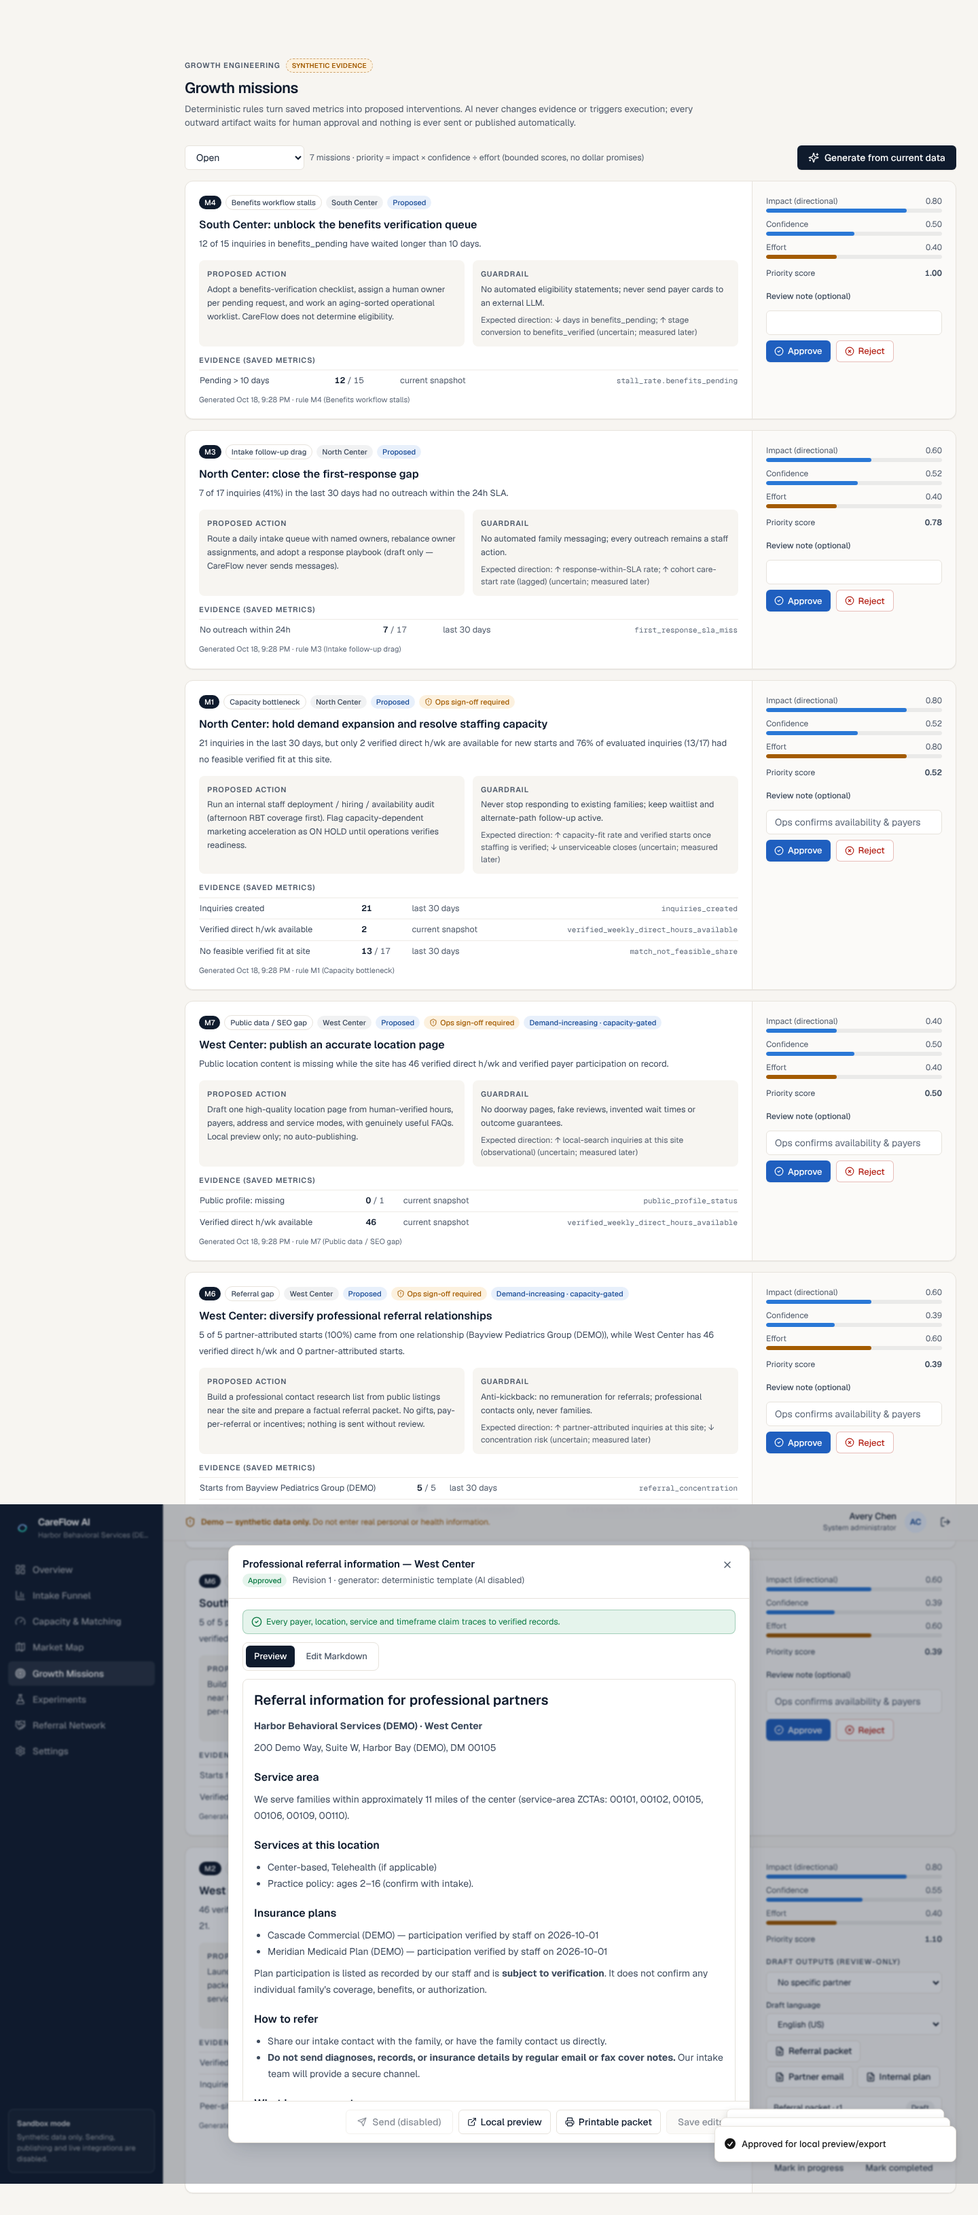
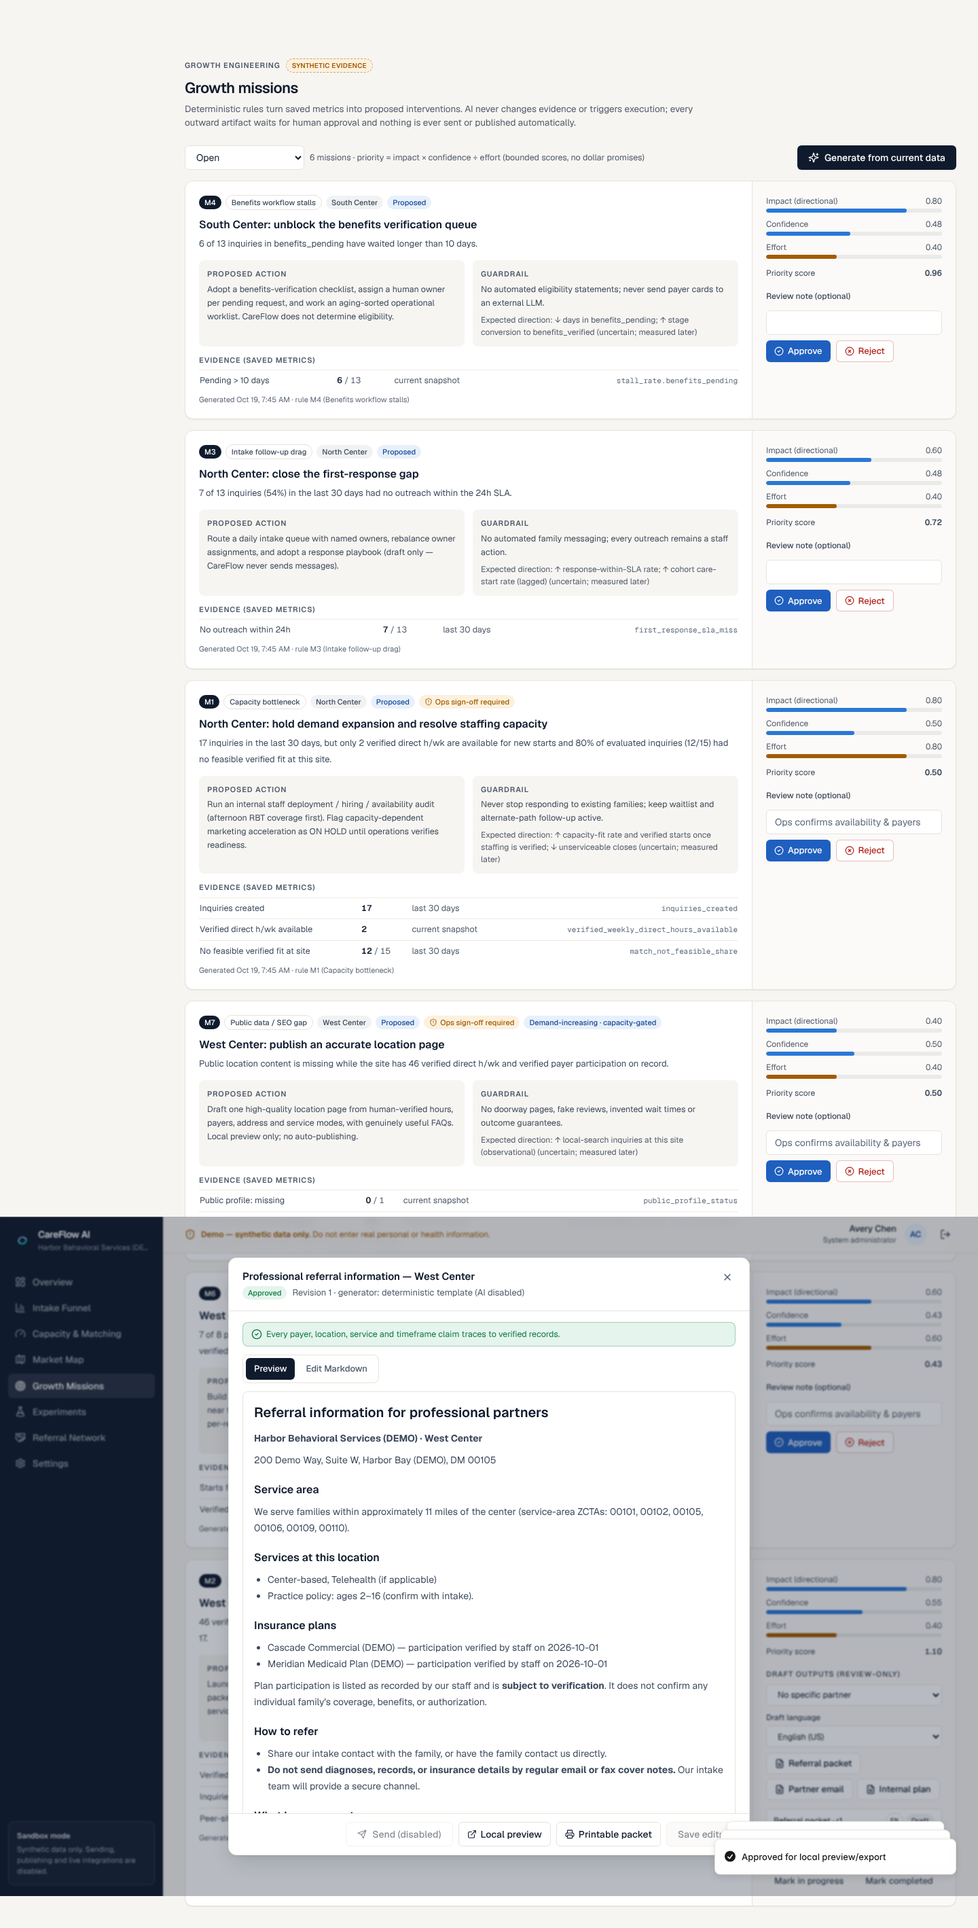
Seed: same story at any time of day; refresh unreviewed missions across reporting weeks
The inquiry simulator's random draws depend on which events would fall after
'now', so resets at different hours produced different stories (an extra M6
South mission between ~02:00 and 04:00 UTC). Simulate at the latest 18:00 UTC
and shift timestamps forward to now; pinned anchors are unchanged. Mission
generation now refreshes still-proposed missions from earlier reporting weeks
instead of duplicating them. Adds seed-stability tests; updates the report.

Claude-Session: https://claude.ai/code/session_01MZ63PHRdwu6UMgfcRg6Ymw

diff --git a/packages/db/test/seed-stability.test.ts b/packages/db/test/seed-stability.test.ts
@@ -1,0 +1,57 @@
+import { afterAll, describe, expect, it } from "vitest";
+import { seedDatabase, storyReference } from "../src/seed";
+import { HARBOR } from "../src/seed/fixtures";
+import { generateMissions, listMissions } from "../src/services/missions";
+import { harbor, reseed, testDb } from "./helpers";
+
+const { db, client } = testDb();
+afterAll(async () => {
+  await reseed(db);
+  await client.end();
+});
+
+const HOUR = 3_600_000;
+const STORY = ["M1:North Center", "M3:North Center", "M4:South Center"];
+const story = async () =>
+  (await listMissions(db, { ...harbor(), orgId: HARBOR.id })).map((m) => `${m.ruleId}:${m.centerName ?? "-"}`).sort();
+const counts = async () => {
+  const [r] = await client`select (select count(*)::int from inquiries where organization_id = ${HARBOR.id}) as inquiries,
+    (select count(*)::int from inquiry_events where organization_id = ${HARBOR.id}) as events,
+    (select max(occurred_at) from inquiry_events where organization_id = ${HARBOR.id}) as last`;
+  return r!;
+};
+
+describe("seed story stability", () => {
+  it("simulates at the latest 18:00 UTC at or before now", () => {
+    for (const [now, ref] of [
+      ["2026-10-19T02:41:00Z", "2026-10-18T18:00:00.000Z"],
+      ["2026-10-19T17:59:00Z", "2026-10-18T18:00:00.000Z"],
+      ["2026-10-19T18:00:00Z", "2026-10-19T18:00:00.000Z"],
+      ["2026-10-19T23:30:00Z", "2026-10-19T18:00:00.000Z"],
+    ] as const) {
+      expect(storyReference(new Date(now)).toISOString(), now).toBe(ref);
+    }
+  });
+
+  it("the seeded story is identical at any time of day (it used to grow an extra M6 South between ~02:00 and 04:00 UTC)", async () => {
+    await seedDatabase(db, { now: new Date("2026-10-04T18:00:00Z") });
+    const reference = await counts();
+    expect(await story()).toEqual(STORY);
+    for (const now of ["2026-10-05T02:41:00Z", "2026-10-05T03:24:00Z", "2026-10-05T09:00:00Z", "2026-10-05T14:35:00Z"]) {
+      await seedDatabase(db, { now: new Date(now) });
+      expect(await story(), now).toEqual(STORY);
+      const c = await counts();
+      expect({ inquiries: c.inquiries, events: c.events }, now).toEqual({ inquiries: reference.inquiries, events: reference.events });
+      expect(new Date(c.last).getTime(), now).toBeLessThanOrEqual(new Date(now).getTime());
+    }
+  });
+
+  it("regenerating in a new reporting week refreshes still-unreviewed proposals instead of duplicating them", async () => {
+    const anchor = new Date("2026-10-04T18:00:00Z"); // Sunday: +7h is the next reporting week
+    await seedDatabase(db, { now: anchor });
+    for (const h of [3, 7, 13]) {
+      await generateMissions(db, { ...harbor(), now: new Date(anchor.getTime() + h * HOUR) });
+      expect(await story(), `+${h}h`).toEqual(STORY);
+    }
+  });
+});

diff --git a/packages/db/src/seed/index.ts b/packages/db/src/seed/index.ts
@@ -41,6 +41,32 @@ export function seedNow(): Date {
   return d;
 }
 
+/**
+ * The simulator's choices depend on which events would fall after "now", so simulating at
+ * the wall clock gives a different story at different times of day. Instead, simulate at the
+ * latest 18:00 UTC at or before `now` (the time SEED_ANCHOR_DATE uses) and shift every
+ * simulated timestamp forward to `now`: every reset replays the same story, ending at `now`.
+ */
+export function storyReference(now: Date): Date {
+  const ref = new Date(Date.UTC(now.getUTCFullYear(), now.getUTCMonth(), now.getUTCDate(), 18, 0, 0, 0));
+  if (ref.getTime() > now.getTime()) ref.setTime(ref.getTime() - DAY);
+  return ref;
+}
+
+function simulateStory(now: Date) {
+  const ref = storyReference(now);
+  const sim = simulateInquiries(ref);
+  const shift = now.getTime() - ref.getTime();
+  if (shift === 0) return sim;
+  const at = (d: Date) => new Date(d.getTime() + shift);
+  for (const q of sim.inquiries) {
+    q.createdAt = at(q.createdAt);
+    q.stageEnteredAt = at(q.stageEnteredAt);
+  }
+  for (const e of sim.events) e.occurredAt = at(e.occurredAt);
+  return sim;
+}
+
 const DEMO_ORGS = [HARBOR.id, LAKESIDE.id];
 
 /** Seeded capacity history: ops re-attests the (unchanged) sheet every 28 days. */
@@ -128,7 +154,7 @@ async function purgeDemoData(tx: Tx) {
 export async function seedDatabase(db: Db, opts: { now?: Date } = {}) {
   const now = opts.now ?? seedNow();
   const ago = (days: number) => new Date(now.getTime() - days * DAY);
-  const sim = simulateInquiries(now);
+  const sim = simulateStory(now);
 
   await db.transaction(async (tx) => {
     await purgeDemoData(tx);

diff --git a/packages/db/src/services/missions.ts b/packages/db/src/services/missions.ts
@@ -7,7 +7,7 @@ import {
   type MissionStatus,
   type OrgSignals,
 } from "@careflow/core";
-import { and, asc, desc, eq, inArray, sql } from "drizzle-orm";
+import { and, asc, desc, eq, inArray, isNull, sql } from "drizzle-orm";
 import type { Db, Executor } from "../client";
 import { centers, contentDrafts, dailyMetrics, experiments, missionEvidence, missions } from "../schema";
 import { audit } from "./audit";
@@ -136,10 +136,27 @@ export async function generateMissions(db: Db, ctx: Ctx) {
 
   await db.transaction(async (tx) => {
     for (const p of proposals) {
-      const [existing] = await tx
+      let [existing] = await tx
         .select()
         .from(missions)
         .where(and(eq(missions.organizationId, ctx.orgId), eq(missions.dedupeKey, p.dedupeKey)));
+      if (!existing) {
+        // A still-unreviewed proposal for the same site + rule from an earlier reporting week is
+        // refreshed (and re-keyed to this week) rather than duplicated. Reviewed missions do not block.
+        [existing] = await tx
+          .select()
+          .from(missions)
+          .where(
+            and(
+              eq(missions.organizationId, ctx.orgId),
+              eq(missions.ruleId, p.ruleId),
+              p.centerId ? eq(missions.centerId, p.centerId) : isNull(missions.centerId),
+              eq(missions.status, "proposed"),
+            ),
+          )
+          .orderBy(desc(missions.generatedAt))
+          .limit(1);
+      }
       let missionId: string;
       if (!existing) {
         const [m] = await tx

diff --git a/packages/db/src/index.ts b/packages/db/src/index.ts
@@ -4,7 +4,7 @@ export * as schema from "./schema";
 export * from "./services";
 export { hitRateLimit } from "./services/rate-limit";
 export { withOrg, setTenant } from "./tenant";
-export { seedDatabase, seedNow, DEMO_ORG_IDS } from "./seed";
+export { seedDatabase, seedNow, storyReference, DEMO_ORG_IDS } from "./seed";
 export { HARBOR, LAKESIDE, USERS, DEMO_PASSWORD, centerId, payerId, partnerId, userId } from "./seed/fixtures";
 export { hashPassword, verifyPassword } from "./auth";
 export { seedUuid } from "./ids";

diff --git a/docs/orchestration-report.md b/docs/orchestration-report.md
@@ -2,18 +2,19 @@
 
 **Status: synthetic sandbox only. Not HIPAA-compliant and not approved for real patient data** (see `security-production-gates.md`).
 
-This round closed the MVP backlog listed in `agent-decisions.md` and the risk registry. Six workstreams ran in parallel child sessions, each on its own `claude/careflow-ws-*` branch with assigned files and migration numbers. Each branch was merged in turn into `claude/careflow-ai-mvp-gyrzv4` with merge commits (no history rewrites). The full gate set was re-run after every merge. PRD §20 stretch items were not touched.
+This round closed the MVP backlog listed in `agent-decisions.md` and the risk registry. Eight workstreams ran in child sessions (six in the main round, two in a final hardening round), each on its own `claude/careflow-ws-*` branch with assigned files and migration numbers. Each branch was merged in turn into `claude/careflow-ai-mvp-gyrzv4` with merge commits (no history rewrites). The full gate set was re-run after every merge. PRD §20 stretch items were not touched.
 
 ## Gate results (integrated branch, starting from dropped databases and a dropped app role)
 
 | Gate | Before | After |
 |---|---|---|
-| `pnpm db:migrate && pnpm db:reset` | ✓ | ✓ (4 migrations: 0000–0003) |
+| `pnpm db:migrate && pnpm db:reset` | ✓ | ✓ (5 migrations: 0000–0004) |
 | `pnpm lint`, `pnpm typecheck` | ✓ | ✓ |
-| `pnpm test` (Vitest) | 99 | **238** (core 125, db 88, web 16, connectors 9) |
-| `pnpm test:e2e` (Playwright, production build) | 11 | **24** (includes 8 axe specs covering ~16 screens/states and a nonce-CSP check) |
+| `pnpm test` (Vitest) | 99 | **266** (core 125, db 99, web 27, connectors 9, jobs 6) |
+| `pnpm test:e2e` (Playwright, production build) | 11 | **26** (includes 9 axe specs covering ~17 screens/states, nonce-CSP and CSP-report checks) |
+| GitHub Actions CI | none | ✓ green on this branch |
 
-The seeded acceptance chain is unchanged and covered by E2E workflows 3, 5 and 7:
+The seeded acceptance chain is unchanged and covered by E2E workflows 3, 5 and 7, and it is now identical at any time of day (see the seed fix below):
 - Meridian is accepted by West, not North.
 - Editing West staff hours makes West a potential fit.
 - Generating missions adds West M2/M6/M7; the seed alone yields M1 North, M3 North and M4 South.
@@ -29,6 +30,8 @@ The seeded acceptance chain is unchanged and covered by E2E workflows 3, 5 and 7
 | **Quality** (`ws-quality`) — CI, a11y, R3 | <ul><li>`.github/workflows/ci.yml`: Postgres 16 service, migrate, seed, lint, typecheck, test, E2E, and the Playwright report uploaded on failure.</li><li>`@axe-core/playwright` scans every screen, with violations fixed at the source and no rule exceptions.</li><li>Per-request nonce CSP in middleware: `'strict-dynamic'`, no `'unsafe-inline'` scripts.</li><li>Root-caused the flaky overview filter test, which was also flaky on the base branch. The `(app)/loading.tsx` boundary hung same-page search-param navigations in production builds, so the file was removed.</li></ul> | `a11y.spec.ts`, CSP E2E, `middleware.test.ts`. |
 | **Kanban** (`ws-kanban`, optional) | Native HTML5 drag-and-drop between stage columns, plus a keyboard and touch "Move to…" menu. Both call the existing transition API. Illegal target columns are disabled, server errors roll the card back, and moves that need a reason open the drawer. Viewers can neither drag nor move. | `legalMoves` unit tests; E2E workflow 10; axe scan of the board. |
 | **Locale** (`ws-locale`, optional) | `es-US` deterministic draft templates. English output is unchanged (snapshot test). The claim validator now has Spanish rules and a HIPAA-claim rule in both languages. Pages set `lang` correctly, and the UI says the Spanish text is machine-authored and needs human translator review before any real use. | Core and db tests; E2E workflow 11; axe scans of the Spanish editor, print page and export. |
+| **Jobs role + lockout** (`ws-jobsrole`, final round) — R1/R2 residuals | <ul><li>Migration `0004_jobs_role_lockout`. The jobs CLI runs only as `careflow_app`, once per organization inside a `withOrg` transaction. Organizations come from `careflow_job_org_ids()` (ids only), or `--org`. Job audit rows have no actor.</li><li>Per-account sign-in lockout: 5 failures in 15 min lock that email for 15 min, whatever the IP. It is keyed by a SHA-256 of the email, so unknown emails behave identically, and the 429 response is the same generic message. The app role reaches `login_attempts` only through SECURITY DEFINER functions.</li></ul> | `jobs-app-role.test.ts` (6), `login-lockout.test.ts` (8), `login-lockout-route.test.ts` (2). |
+| **Polish** (`ws-polish`, final round) — R3 residual, locale | <ul><li>CSP `report-uri` / `report-to` point only at a same-origin `POST /api/v1/csp-report`. It has an 8 KB cap and a per-IP limit, and logs a sanitized one-line summary (directive, blocked origin, path without query string).</li><li>EN/ES language badges on drafts in the missions list.</li></ul> | `csp-report.test.ts`; E2E asserts the report directives and zero reports while navigating every screen; workflow 11 checks the badge. |
 
 ## Integration fixes made by the orchestrator
 
@@ -37,14 +40,21 @@ The seeded acceptance chain is unchanged and covered by E2E workflows 3, 5 and 7
 - Pointed the equity route test at the least-privilege app-role pool. It returned 401 under the new tenancy model.
 - Extended axe coverage to the equity tab and the reserved-hold drawer.
 - Merged the documentation conflicts so that every workstream's caveats were kept.
+- **Fixed a pre-existing seed bug found during final verification.** The simulator stops drawing random numbers once an event would fall after "now", so a reset at different times of day produced a different story. Between roughly 02:00 and 04:00 UTC the seed grew an extra **M6 South** mission, breaking the "exactly M1 North, M3 North, M4 South" guarantee. The tests never caught it because they pin 18:00 UTC.
+  - The fix simulates at the latest 18:00 UTC at or before now and shifts every simulated timestamp forward to now. The story is identical at any hour and still ends at now. Pinned 18:00 anchors are byte-identical to before.
+  - Mission generation also duplicated still-unreviewed proposals once a new reporting week began. Those are now refreshed and re-keyed instead.
+  - Covered by `seed-stability.test.ts`.
 
 ## Deferred / remaining limitations (and why)
 
 - **CI runs green on GitHub Actions** for this branch (runs on pushes of `97caf6f` and `f8557e7` succeeded: migrate, seed, lint, typecheck, test and E2E against a Postgres 16 service). **Docker is not verified:** `docker-compose.yml` was reviewed by reading only, because there is no Docker daemon here.
-- **Jobs CLI still runs as the owner role.** A scoped jobs role needs its own policy design. This is listed under R1 residuals.
+- **Jobs CLI** now runs as the app role (done). The job host still holds the app-role secret, and `careflow_job_org_ids()` lets that role list organization ids.
 - **The demo-reset button uses the owner connection.** It purges both demo tenants. It can be turned off with `DEMO_RESET_ENABLED=false`, which is required before any shared deployment.
-- **Rate limiter is not a WAF.** The sign-in IP key comes from `X-Forwarded-For` and can be spoofed without a trusted proxy. There is no per-account lockout.
-- **`style-src 'unsafe-inline'` remains.** React, Radix and Recharts set inline style attributes. There is no CSP violation reporting yet.
+- **Rate limiter is not a WAF.** The sign-in IP key comes from `X-Forwarded-For` and can be spoofed without a trusted proxy. Per-account lockout is built, but:
+  - anyone who knows an email can lock it for the cool-down, and there is no unlock flow;
+  - the email hash is unsalted;
+  - lockouts survive `db:reset` until they expire.
+- **`style-src 'unsafe-inline'` remains.** React, Radix and Recharts set inline style attributes. CSP violation reports reach the server log only; there is no aggregation or alerting.
 - **Capacity limits:**
   - History versions only the capacity sheet; payer participation and site profile are applied as currently recorded.
   - Holds subtract from the weekly total, not from specific time windows.

diff --git a/docs/agent-decisions.md b/docs/agent-decisions.md
@@ -19,7 +19,7 @@ This log records judgement calls made while implementing the PRD without routine
 | A11 | Auth | Self-hosted session auth (scrypt + hashed random tokens) instead of Auth.js. | Fewer moving parts offline; PRD allows “suitable self-hosted authentication”. |
 | A12 | Map | Offline SVG hex-tile choropleth instead of MapLibre + basemap tiles. | Basemap tiles require network/third-party requests (privacy, CSP, offline demo) and the geography is fictional anyway. MapLibre remains a drop-in for real ZCTA geometry later. |
 | A13 | UI kit | Hand-written shadcn-style components on Radix primitives instead of the shadcn CLI. | Same patterns, no generator dependency. |
-| A14 | Seed anchor | Seed timestamps are relative to “now” at seed time (or `SEED_ANCHOR_DATE`); IDs are UUIDv5 so resets reproduce the exact state. Sessions survive resets. | KPIs over “last 90 days” stay meaningful whenever the demo is reset. |
+| A14 | Seed anchor | Seed timestamps end at “now” at seed time (or `SEED_ANCHOR_DATE`, 18:00 UTC that day); IDs are UUIDv5 so resets reproduce the exact state. The inquiry simulation always runs at the latest 18:00 UTC at or before now and is shifted forward to now, because simulating at the wall clock produced a different story at different times of day (between ~02:00 and 04:00 UTC an extra M6 South mission appeared). Sessions survive resets. Mission generation dedupes per site + rule + reporting week, and a still-unreviewed proposal from an earlier week is refreshed and re-keyed instead of duplicated. | KPIs over “last 90 days” stay meaningful whenever the demo is reset, and the acceptance story is identical at any hour (`seed-stability.test.ts`). |
 | A15 | Docker | `docker-compose.yml` is provided; the build/test environment here used a local PostgreSQL 16 service (no Docker daemon). | Same version and schema. |
 | A16 | Capacity history | Every capacity save appends an immutable `capacity_versions` header (rules snapshot, `[valid_from, valid_to)`) plus `staff_capacity_window_versions` rows; capacity-fit for a cohort is evaluated as of each inquiry's `created_at` (version in force, holds active then, starts in the prior 7 days). The seed backfills five versions per site — the same sheet re-attested every 28 days back from the latest fixture attestation — so seeded numbers and the acceptance chain are unchanged. | Risk R8; keeps retrospective KPIs from being rewritten by today's capacity edits without inventing a different capacity story for the demo. |
 | A17 | Kanban moves | Native HTML5 drag events (no drag library) plus a per-card native `<select>` “Move to…” menu as the keyboard/screen-reader path; both call the drawer's `POST /api/v1/inquiries/[id]/transition`. Legal targets come from `legalMoves()` in `packages/core/src/stages.ts` (the same graph the server enforces); illegal columns are dimmed and do not accept a drop. Moves that need a reason (waitlist, close, reopen) or a verified care start open the drawer instead (with the reason prompt for reason-required moves). The move is optimistic; any API error (invalid transition, forbidden, rate limit) rolls the card back and shows the message in an alert. Roles without `inquiry:transition` get neither drag nor the menu. | No new dependency, works under the nonce CSP, and the server stays the only authority on transitions. |

diff --git a/README.md b/README.md
@@ -15,7 +15,7 @@ CareFlow connects intake funnel events, verified operational capacity, local mar
 | Capacity-aware matching | **Capacity & Matching** | Ops editors for payer status and staff windows (optimistic locking, attest-as-verified, every save versioned for as-of metrics), explainable hard gates (geography, payer, mode, age policy, RBT schedule, BCBA supervision, weekly start limit), soft score breakdown, `verification_needed` / `no_feasible_match` states, “Test a match” |
 | Capacity reservation holds | **Intake drawer** | Reserve a verified potential fit as a capacity hold in a row-locked transaction (concurrent reservations can never exceed verified hours or the weekly new-start limit), release, automatic expiry; holds are explicitly **not appointments** |
 | Geographic market intelligence | **Market Map** | Offline hex-tile choropleth (fictional geography), five layers, transparent opportunity heuristic with missing-component ranges, small-cell suppression, provenance panel, admin refresh with ACS connector and fixture fallback |
-| Evidence-based growth missions | **Growth Missions** | Deterministic rules M1–M7 with saved evidence, dedupe per reporting week, capacity-gated demand rules, ops sign-off gates, approve/reject/status |
+| Evidence-based growth missions | **Growth Missions** | Deterministic rules M1–M7 with saved evidence, dedupe per reporting week (unreviewed proposals are refreshed, not duplicated), capacity-gated demand rules, ops sign-off gates, approve/reject/status |
 | Referral drafting & experiments | **Missions → drafts**, **Experiments**, **Referral Network** | Template drafts from verified records + claim validator, edit/re-validate/approve, English (`en-US`) or Spanish (`es-US`) drafts — Spanish templates are machine-authored and must be reviewed by a qualified human translator before any real use, local preview/print only (send disabled), partner codes + QR, partner- and site-week-randomized experiments with persisted HMAC assignments, Wilson/Newcombe intervals (individual) or cluster-robust intervals with clusters per arm (partner/site-week) only when eligible, “insufficient evidence” otherwise; **Equity audit** tab with aggregate payer-group access rates and small-cell suppression (never used for scoring, ranking, matching or exclusion) |
 | Synthetic demo that ties it together | seed + **Settings → Reset** | ~150 inquiries / ~900 events over 90 days across North (capacity bottleneck), West (unverified headroom) and South (benefits stalls); one-click reset to the exact seed state |
 
